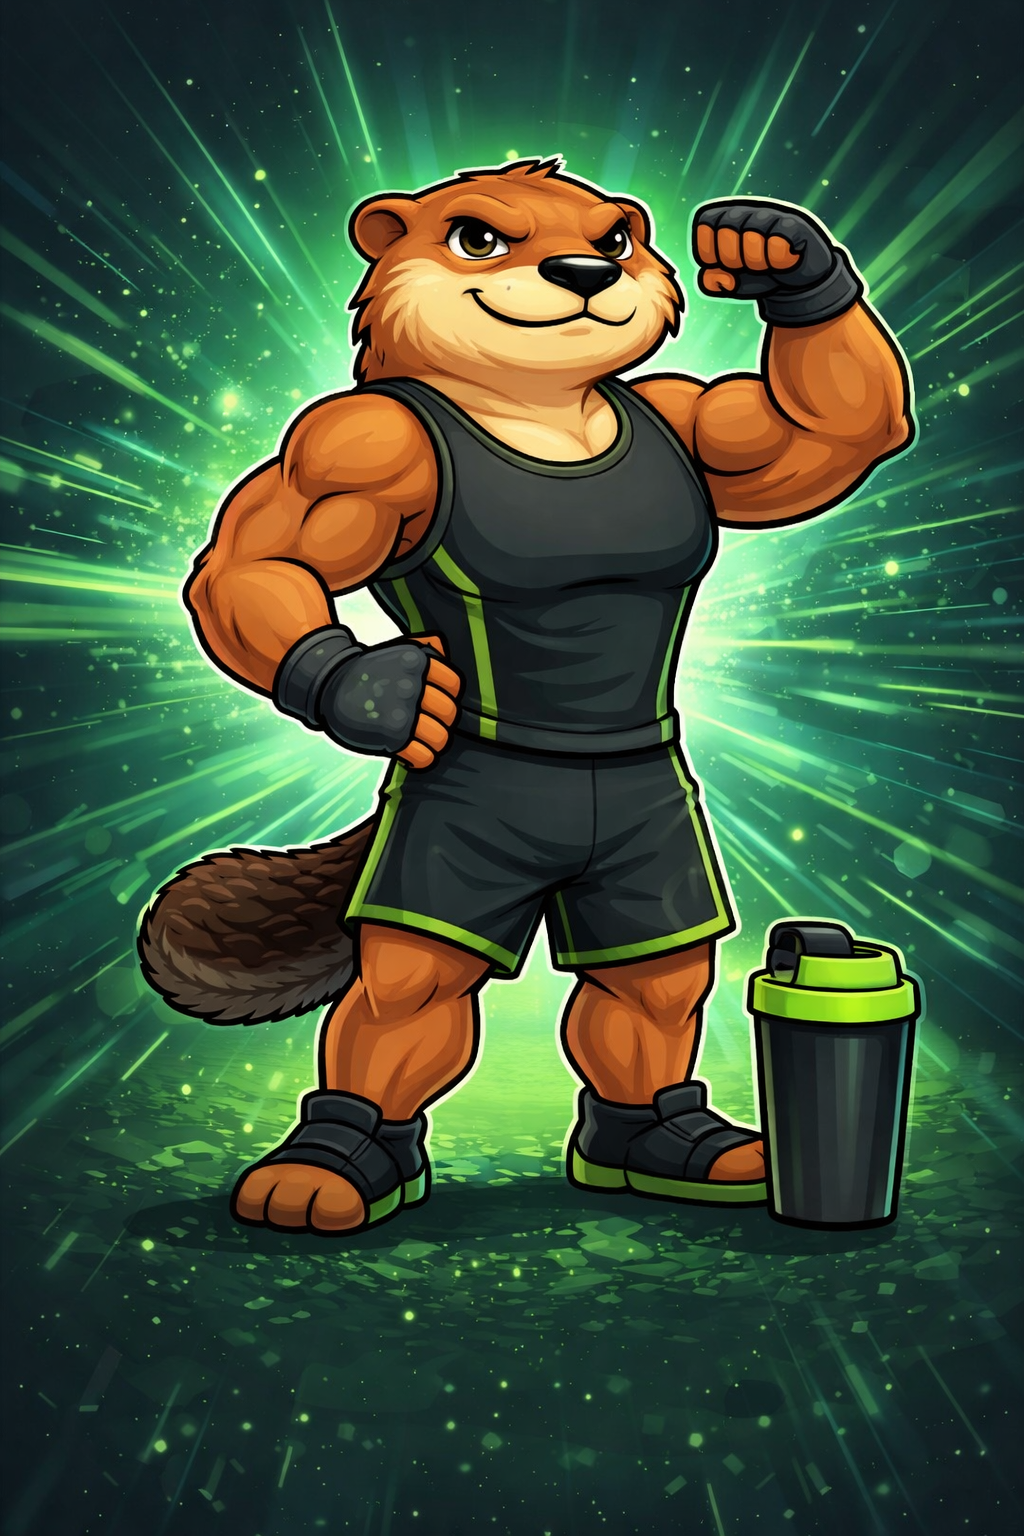
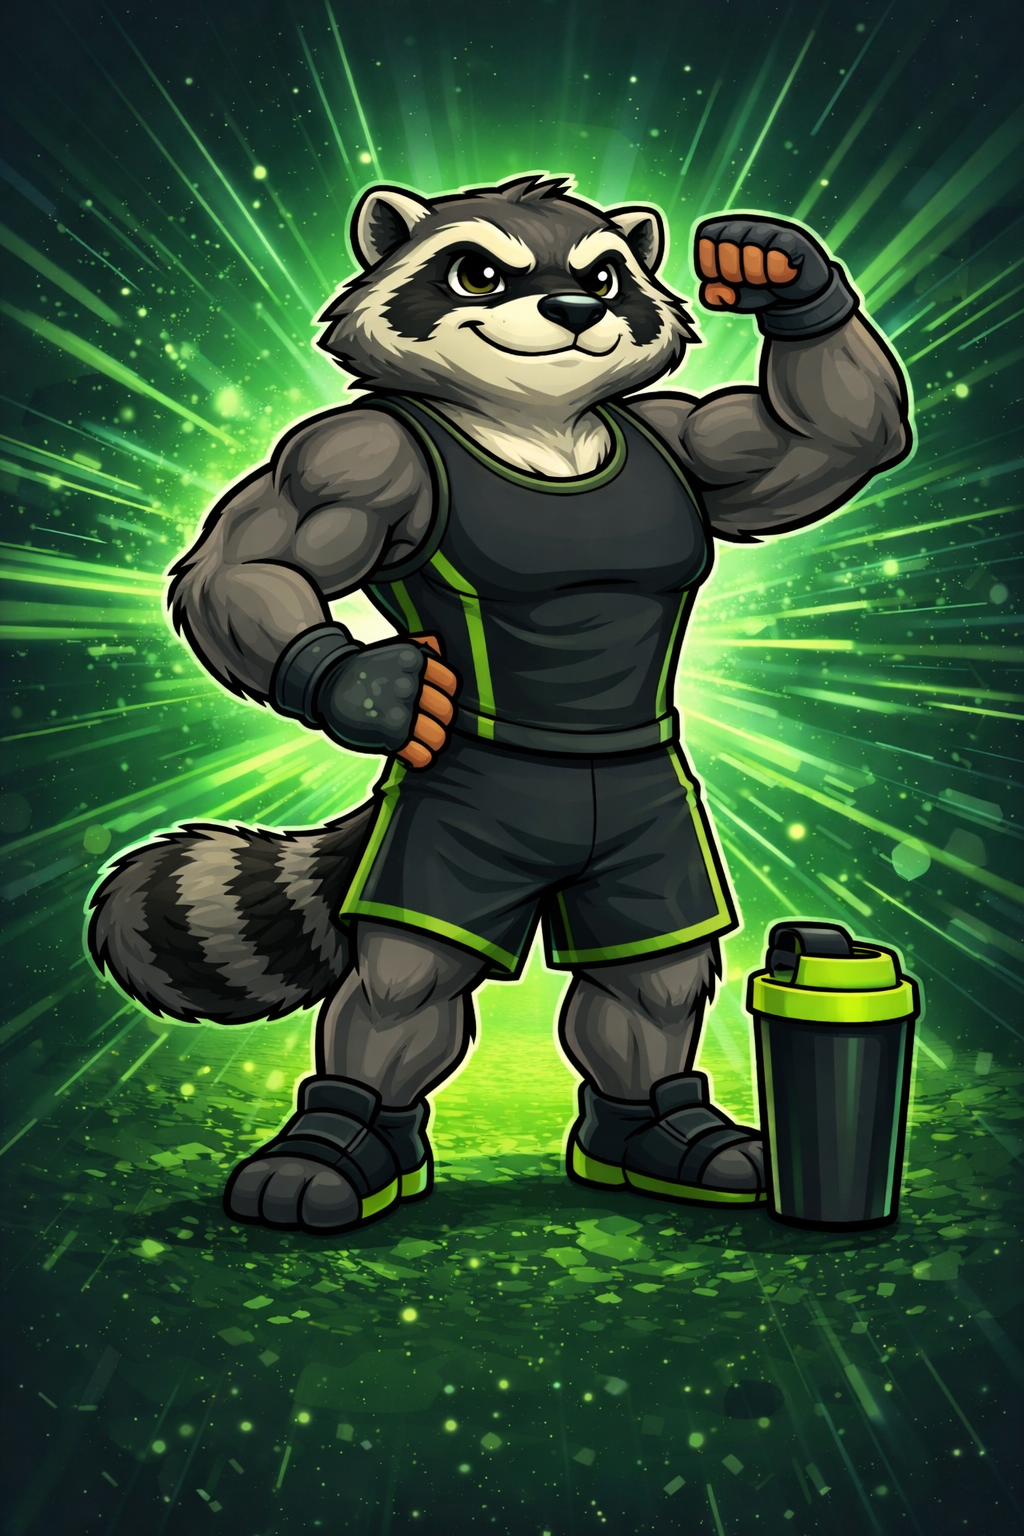
Add files via upload

diff --git a/script.js b/script.js
@@ -10,7 +10,7 @@ if ('serviceWorker' in navigator) {
 // LEVELS CONFIG
 const LEVELS = [
     { name: "🌲 Forest Stream", grid: [3, 3], bg: "url('assets/img/background.png')", count: 9 },
-    { name: "🪵 Beaver Dam", grid: [4, 3], bg: "url('assets/img/background2.png')", count: 12 },
+    { name: "🪵 Racoon Den", grid: [4, 3], bg: "url('assets/img/background2.png')", count: 12 },
     { name: "❄ Winter Night", grid: [4, 4], bg: "url('assets/img/background3.png')", count: 16 }
 ];
 
@@ -27,8 +27,8 @@ let state = {
 
 // PERSISTENCE
 let records = {
-    highScore: parseInt(localStorage.getItem('beaver_highScore') || 0),
-    maxCombo: parseInt(localStorage.getItem('beaver_maxCombo') || 0)
+    highScore: parseInt(localStorage.getItem('racoon_highScore') || 0),
+    maxCombo: parseInt(localStorage.getItem('racoon_maxCombo') || 0)
 };
 
 // DOM (Updated with Loading Screen)
@@ -85,8 +85,11 @@ function preloadAssets() {
 }
 
 // INIT UI & ASSETS
-// Start preloading immediately
-preloadAssets().then(() => {
+// Combine preload with a timeout race to prevent infinite loading
+Promise.race([
+    preloadAssets(),
+    new Promise(resolve => setTimeout(resolve, 3000)) // Force start after 3s
+]).then(() => {
     // Hide Loading Screen
     if (els.loadingScreen) {
         els.loadingScreen.classList.add('fade-out');
@@ -94,9 +97,9 @@ preloadAssets().then(() => {
             els.loadingScreen.style.display = 'none';
         }, 500);
     }
-    // Show Intro Logic (which is default, but now visible underneath)
+    // Show Intro Logic
     updateIntroStats();
-    if (els.intro) els.intro.style.display = 'flex'; // Ensure visible
+    if (els.intro) els.intro.style.display = 'flex';
 });
 
 function updateIntroStats() {
@@ -107,11 +110,11 @@ function updateIntroStats() {
 function saveRecords() {
     if (state.score > records.highScore) {
         records.highScore = state.score;
-        localStorage.setItem('beaver_highScore', records.highScore);
+        localStorage.setItem('racoon_highScore', records.highScore);
     }
     if (state.maxCombo > records.maxCombo) {
         records.maxCombo = state.maxCombo;
-        localStorage.setItem('beaver_maxCombo', records.maxCombo);
+        localStorage.setItem('racoon_maxCombo', records.maxCombo);
     }
 }
 
@@ -326,10 +329,10 @@ function spawn() {
     if (state.isOver || state.isPaused) return;
 
     // Difficulty Scaling based on In-Game Level (not Stage)
-    // As score goes up, more simultaneous beavers.
-    const maxBeavers = Math.min(4, Math.floor((state.level - 1) / 5) + 1);
+    // As score goes up, more simultaneous racoons.
+    const maxRacoons = Math.min(4, Math.floor((state.level - 1) / 5) + 1);
 
-    if (state.activeTimers.size >= maxBeavers) {
+    if (state.activeTimers.size >= maxRacoons) {
         setTimeout(spawn, 500);
         return;
     }
@@ -349,18 +352,18 @@ function spawn() {
 
     const idx = availableIdx[Math.floor(Math.random() * availableIdx.length)];
 
-    // Create Beaver
-    const beaver = document.createElement('div');
-    beaver.className = 'hole-mask';
-    beaver.style.pointerEvents = "none";
-    beaver.innerHTML = `<div class="beaver"><div class="beaver-container"><div class="beaver-img normal"></div></div></div>`;
-    cells[idx].appendChild(beaver);
+    // Create Racoon
+    const racoon = document.createElement('div');
+    racoon.className = 'hole-mask';
+    racoon.style.pointerEvents = "none";
+    racoon.innerHTML = `<div class="racoon"><div class="racoon-container"><div class="racoon-img normal"></div></div></div>`;
+    cells[idx].appendChild(racoon);
 
     // Set Timer
     const timerId = setTimeout(() => miss(idx), state.speed);
     state.activeTimers.set(idx, timerId);
 
-    const nextSpawnTime = Math.max(300, state.speed / (maxBeavers * 0.9));
+    const nextSpawnTime = Math.max(300, state.speed / (maxRacoons * 0.9));
     setTimeout(spawn, nextSpawnTime);
 }
 
@@ -379,8 +382,8 @@ function hit(idx) {
     const cells = document.querySelectorAll('.cell');
     const cell = cells[idx];
     const mask = cell.querySelector('.hole-mask');
-    const img = mask ? mask.querySelector('.beaver-img') : null;
-    if (img) img.className = 'beaver-img yes';
+    const img = mask ? mask.querySelector('.racoon-img') : null;
+    if (img) img.className = 'racoon-img yes';
 
     state.combo++;
     if (state.combo > state.maxCombo) state.maxCombo = state.combo;
@@ -436,10 +439,10 @@ function miss(idx) {
     const cell = cells[idx];
     const mask = cell.querySelector('.hole-mask');
     if (mask) {
-        const beaver = mask.querySelector('.beaver');
-        if (beaver) beaver.classList.add('miss');
-        const img = mask.querySelector('.beaver-img');
-        if (img) img.className = 'beaver-img no';
+        const racoon = mask.querySelector('.racoon');
+        if (racoon) racoon.classList.add('miss');
+        const img = mask.querySelector('.racoon-img');
+        if (img) img.className = 'racoon-img no';
     }
 
     state.lives--;

diff --git a/style.css b/style.css
@@ -454,8 +454,8 @@ body {
     }
 }
 
-/* ========== BEAVER & IMAGES ========== */
-.beaver {
+/* ========== RACOON & IMAGES ========== */
+.racoon {
     width: 100%;
     height: 100%;
     position: absolute;
@@ -464,7 +464,7 @@ body {
     animation: popUp 0.3s ease-out forwards;
 }
 
-.beaver.miss {
+.racoon.miss {
     animation: popDown 0.3s ease-in forwards;
 }
 
@@ -488,14 +488,14 @@ body {
     }
 }
 
-.beaver-container {
+.racoon-container {
     width: 100%;
     height: 100%;
     position: relative;
 }
 
 /* The Image Element */
-.beaver-img {
+.racoon-img {
     width: 100%;
     height: 100%;
     background-size: contain;
@@ -508,17 +508,17 @@ body {
 }
 
 /* STATES (Images) */
-.beaver-img.normal {
+.racoon-img.normal {
     background-image: url('assets/img/normal.png');
 }
 
-.beaver-img.yes {
+.racoon-img.yes {
     background-image: url('assets/img/yes.png');
     transform: scale(1.1);
     filter: brightness(1.2);
 }
 
-.beaver-img.no {
+.racoon-img.no {
     background-image: url('assets/img/no.png');
     filter: grayscale(0.5);
 }

diff --git a/index.html b/index.html
@@ -11,7 +11,7 @@
     <meta name="apple-mobile-web-app-capable" content="yes">
     <meta name="apple-mobile-web-app-status-bar-style" content="black-translucent">
 
-    <title>Beaver Smash</title>
+    <title>Racoon Smash</title>
     <link rel="stylesheet" href="style.css">
 </head>
 </head>
@@ -27,8 +27,8 @@
 
         <!-- INTRO SCREEN -->
         <div id="intro-screen" style="display: none;">
-            <img class="intro-bg" src="assets/img/beaver_main.png" alt="Beaver Main">
-            <div class="game-title">BEAVER<br>SMASH</div>
+            <img class="intro-bg" src="assets/img/beaver_main.png" alt="Racoon Main">
+            <div class="game-title">RACOON<br>SMASH</div>
 
             <div class="intro-stats">
                 <div class="intro-stat-item">

diff --git a/sw.js b/sw.js
@@ -1,4 +1,4 @@
-const CACHE_NAME = 'beaver-game-v1';
+const CACHE_NAME = 'racoon-game-v1';
 const ASSETS = [
     './',
     './index.html',
